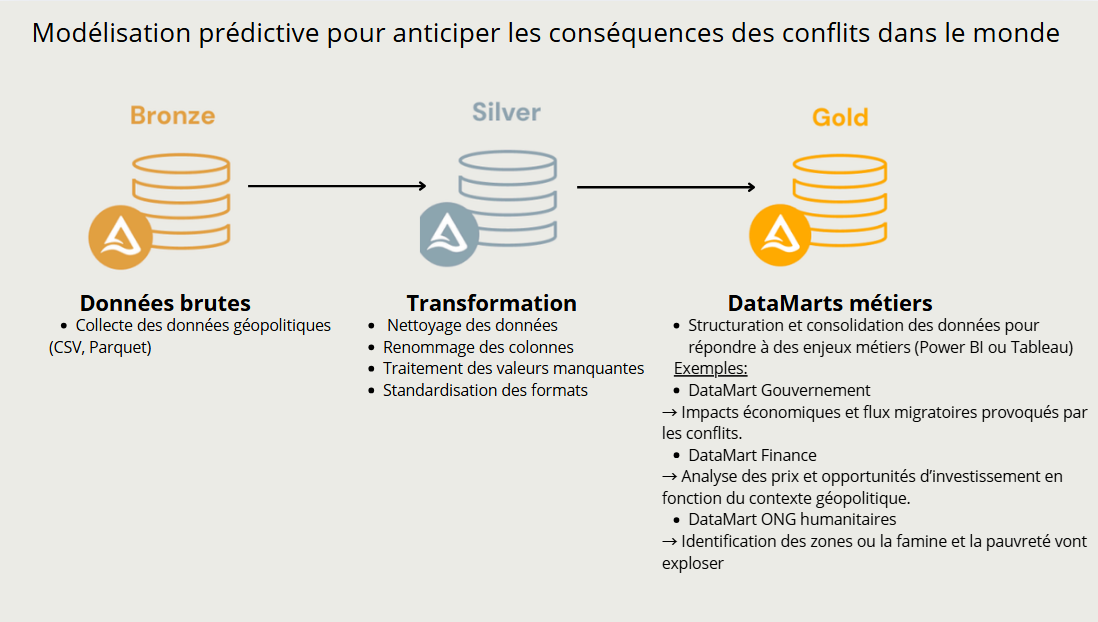
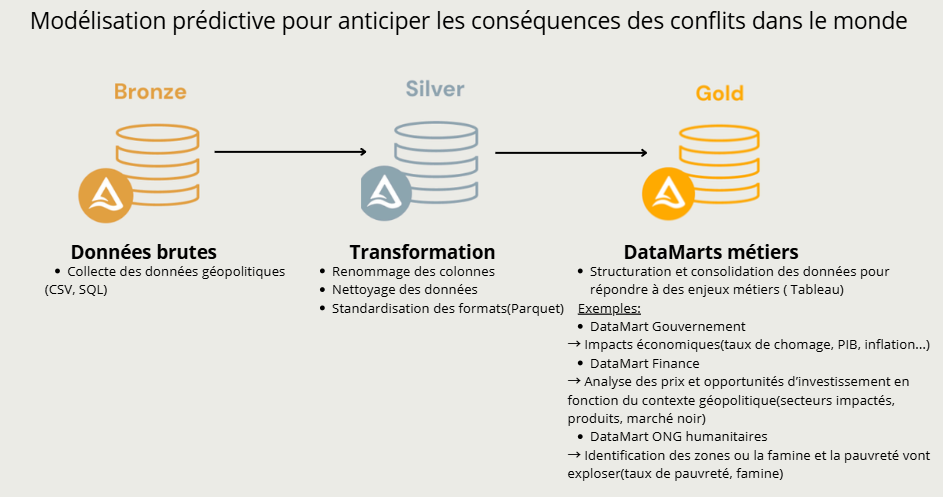
Add the business problkematics and analysis

diff --git a/README.md b/README.md
@@ -1,10 +1,17 @@
-## Objectifs
+## Contexte et objectifs
+Dans un contexte international marqué par la multiplication et la complexification des conflits armés, les acteurs publics et privés font face à une incertitude croissante quant aux impacts géopolitiques sur les économies, les marchés financiers et les situations humanitaires. Les guerres, qu’elles soient localisées ou à portée internationale, entraînent des conséquences multidimensionnelles : instabilité économique, perturbation des chaînes d’approvisionnement, flux migratoires, crises humanitaires et fluctuations des marchés.
+Par ailleurs, les données relatives aux conflits passés et actuels sont souvent dispersées, hétérogènes et difficiles à exploiter efficacement. Cette fragmentation limite la capacité des décideurs à anticiper les risques, à comprendre les dynamiques géopolitiques et à coordonner des actions adaptées.
+Dans ce contexte, la mise en place d’une architecture de données structurée, centralisant et valorisant les données géopolitiques, apparaît comme un levier stratégique pour améliorer la prise de décision.
+Ainsi notre étude peut d'adresser à différents corps de métier, comme les gouvernements, les entreprises, les institutions financières, les orgnaisations humanitaires et les associations.
 
-L'objectif du projet est de mettre en place une architecture de données qui permettrait d'utiliser des données géopolitiques, et de les structurer à des fins d'analyses économiques, humanitaires et financières.
+---
 
-Cette étude permettrait d'anticiper les potentielles conséquences des guerres dans le monde afin de prendre des décisions et de coordonner les actions en prenant en compte les anciens conflits et ceux actuels.
+## Problématique business :
+Comment concevoir et déployer une architecture de données capable de collecter, structurer et exploiter des données géopolitiques afin de :
+Anticiper les impacts économiques, financiers et humanitaires des conflits armés
+Améliorer la prise de décision des différents acteurs (gouvernements, institutions financières, entreprises, organisations humanitaires)
+Faciliter la coordination des actions en s’appuyant à la fois sur l’analyse des conflits passés et le suivi des crises actuelles ?
 
-Ce projet peut s'adresser à plusieurs instances comme le gouvernement, des institutions financières, des organisations humanitaires ou encore à des citoyens désireux de comprendre l'histoire.
 
 ---
 
@@ -148,3 +155,10 @@ Les données sources proviennent de Kaggle :
 - **economics.sql** — indicateurs économiques liés aux guerres (PIB, chômage, pauvreté, marché noir...)
 
 Lien Kaggle : https://www.kaggle.com/datasets/likithagedipudi/war-economic-and-livelihood-impact-dataset/data
+
+---
+
+## Analyse business : 
+La mise en place d’une architecture de données géopolitiques permet de centraliser et croiser des indicateurs économiques, financiers et humanitaires issus de conflits passés et en cours afin de produire des analyses fiables et comparables. Les visualisations montrent qu’il est possible d’identifier rapidement les pays les plus vulnérables (via un score de crise combinant inflation, chômage, PIB et dévaluation), de repérer les secteurs économiques les plus exposés ainsi que l’intensité des marchés parallèles (évaluation du risque d’investissement), et d’évaluer l’ampleur des impacts humanitaires comme la pauvreté ou l’insécurité alimentaire.
+Une telle architecture permet ainsi d’anticiper les risques, d’orienter les investissements ou les politiques publiques, d’organiser et prioriser les actions humanitaires. Elle facilite également la coordination entre acteurs en fournissant une vision commune, structurée et actualisée des crises, améliorant ainsi la rapidité et la pertinence des décisions.
+
